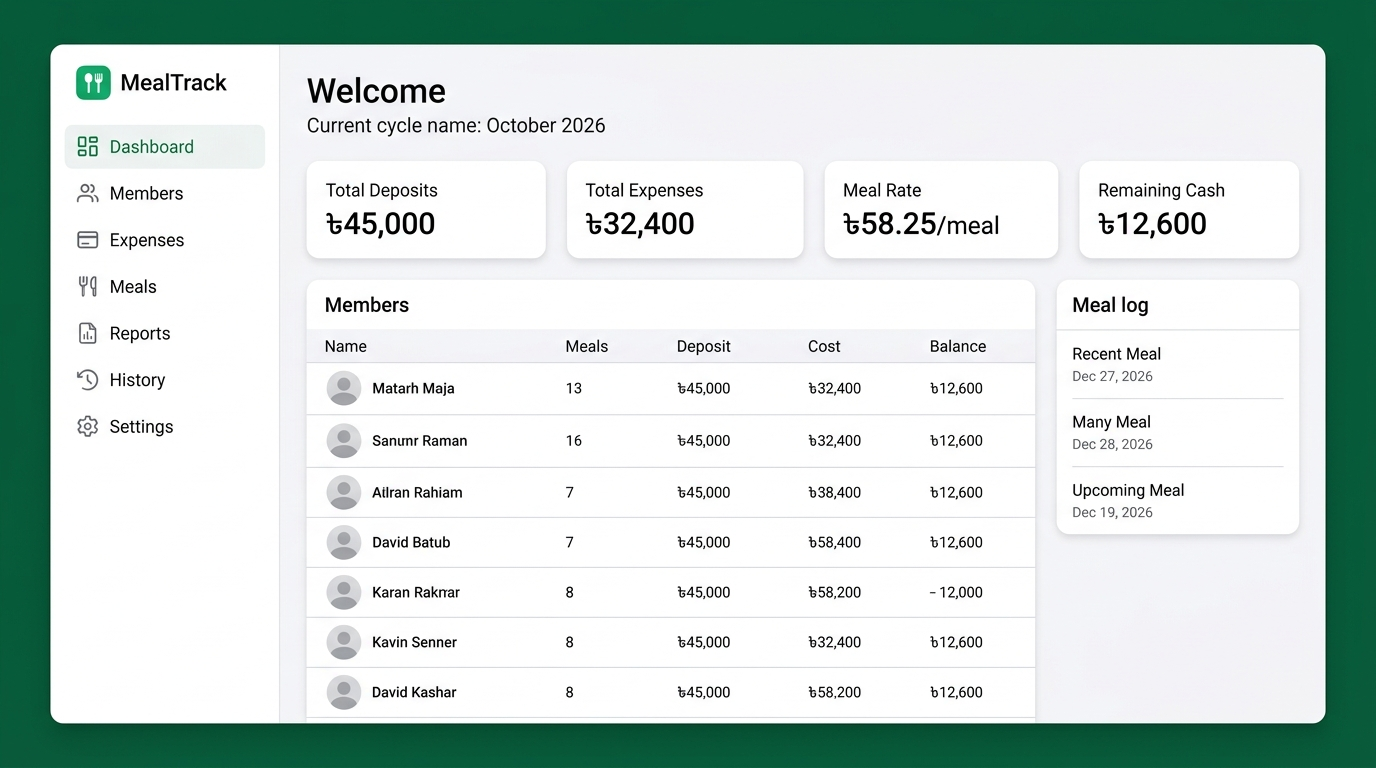
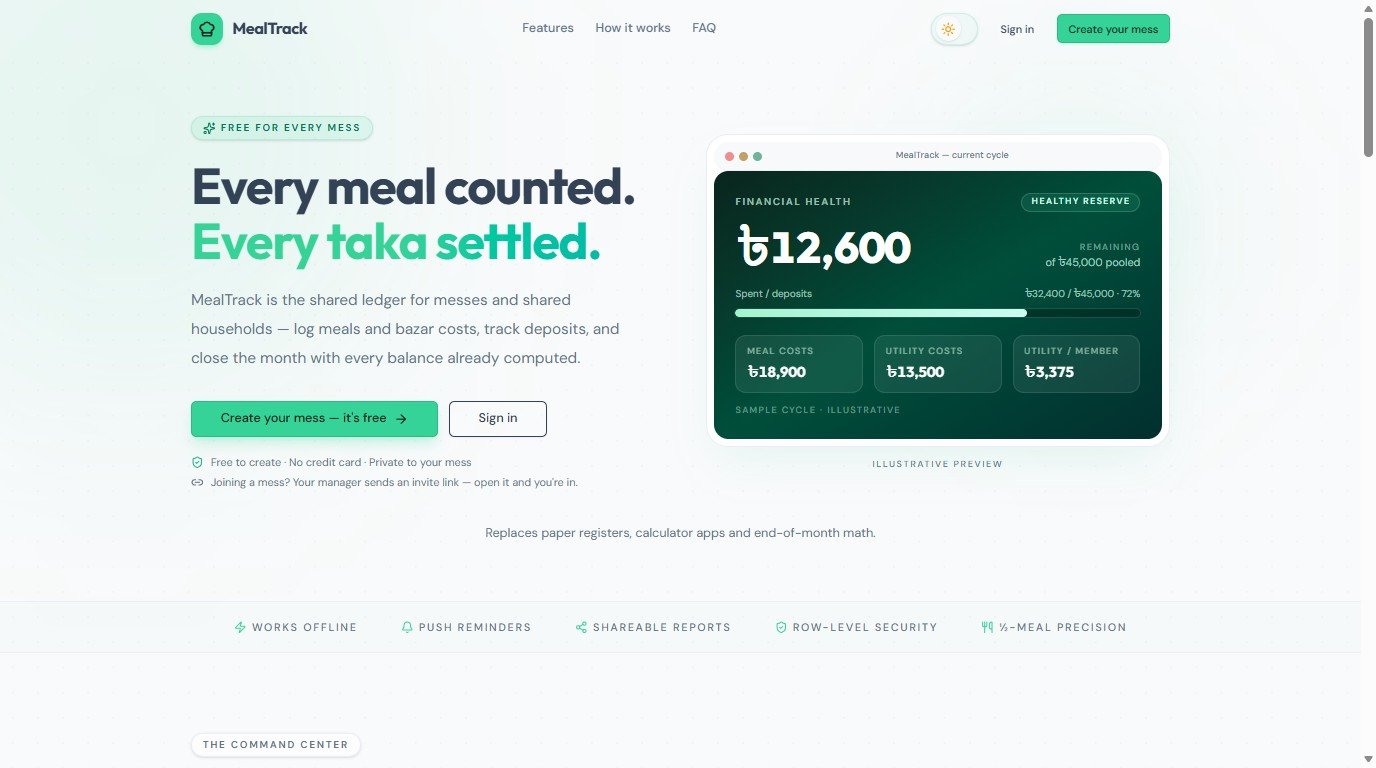
feat: refresh PWA manifest screenshots and drop stale opengraph.jpg
- Recapture screenshot-desktop.jpg (1376x768) and screenshot-mobile.jpg
  (768x1376) from the current landing page at manifest dimensions
- Update manifest screenshot labels to describe the landing page
- Delete client/public/opengraph.jpg (MealManager-branded, unused)
- Point service-worker precache at og-landing.png instead

diff --git a/vite.config.ts b/vite.config.ts
@@ -22,7 +22,7 @@ export default defineConfig({
         "icon-maskable-192.png",
         "icon-maskable-512.png",
         "badge-96.png",
-        "opengraph.jpg",
+        "og-landing.png",
         "screenshot-mobile.jpg",
         "screenshot-desktop.jpg",
         "manifest.webmanifest",
